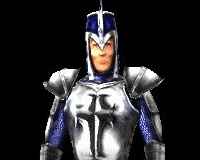
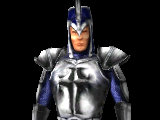
added Mages creatures images (see in comments of CreatureAliases)

Changed region(s): [[0.1875, 0.0, 0.8438, 1.0]]

diff --git a/Editor/src/main/java/sfgamedataeditor/common/cache/icons/aliases/CreaturesAliases.java b/Editor/src/main/java/sfgamedataeditor/common/cache/icons/aliases/CreaturesAliases.java
@@ -12,7 +12,8 @@ public class CreaturesAliases extends AbstractIconPathAlias {
 
         // Shin tar guar/Ghost of udwin/Zerbite ghost/Terror from the deep/Ghost of the scribe
         // Ghost of the scout/Dream-snatcher/Ghost of the piper/Ghost of shar
-        // Ghost of uram/Ghost of silverhand
+        // Ghost of uram/Ghost of silverhand/Ghost of hokan ashir/Priest of tiara
+        // Desperate soul - 1/Desperate soul - 2
         addAlias("1097.png", "640.png");
         addAlias("2335.png", "640.png");
         addAlias("637.png", "640.png");
@@ -23,6 +24,10 @@ public class CreaturesAliases extends AbstractIconPathAlias {
         addAlias("2723.png", "640.png");
         addAlias("2716.png", "640.png");
         addAlias("2724.png", "640.png");
+        addAlias("963.png", "640.png");
+        addAlias("2648.png", "640.png");
+        addAlias("2478.png", "640.png");
+        addAlias("2522.png", "640.png");
 
         // Iridon/Laurin - 1/Laurin - 2/Laurin - 3/Laurin - 4/Laurin - 5
         addAlias("2308.png", "2307.png");
@@ -187,6 +192,48 @@ public class CreaturesAliases extends AbstractIconPathAlias {
         addAlias("409.png", "1356.png");
         addAlias("1076.png", "1356.png");
 
+        // Trader weasel - 1/Trader weasel - 2
+        addAlias("2977.png", "2690.png");
+
+        // Vagabond nandini - 1/Vagabond nandini - 2
+        addAlias("2983.png", "2328.png");
+
+        // Kind soul - 1/Kind soul - 2
+        addAlias("2524.png", "2480.png");
+
+        // Strong soul - 1/Strong soul - 2
+        addAlias("2523.png", "2479.png");
+
+        // Angry soul - 1/Angry soul - 2
+        addAlias("2526.png", "2482.png");
+
+        // Swift soul - 1/Swift soul - 2
+        addAlias("2525.png", "2481.png");
+
+        // Cenwen - 1/Cenwen - 2
+        addAlias("1707.png", "1555.png");
+
+        // Dryad - 2/Dryad - 3
+        addAlias("2948.png", "2838.png");
+
+        // The dark one - 1/The dark one - 2
+        addAlias("1437.png", "1075.png");
+
+        // Tuomi-1/2/3/4/5
+        for (int i = 2695; i <= 2698; ++i) {
+            addAlias(String.valueOf(i) + ".png", "2694.png");
+        }
+
+        // Tuomi-6/7/8/9/10/11/12
+        for (int i = 2942; i <= 2947; ++i) {
+            addAlias(String.valueOf(i) + ".png", "2941.png");
+        }
+
+        // Tuomi-13/14/15/16
+        for (int i = 2950; i <= 2953; ++i) {
+            addAlias(String.valueOf(i) + ".png", "2941.png");
+        }
+
         addEloniElvesAliases();
         addSpidersAliases();
         addUroksAliases();
@@ -265,10 +312,11 @@ public class CreaturesAliases extends AbstractIconPathAlias {
         addAlias("2398.png", "586.png");
         addAlias("587.png", "586.png");
 
-        // Glacier drakeling/Gatekeeper dragon/Ice drakeling - 1/Ice drakeling - 2
+        // Glacier drakeling/Gatekeeper dragon/Ice drakeling - 1/Ice drakeling - 2/Argamun the guardian
         addAlias("1718.png", "1716.png");
         addAlias("1717.png", "1716.png");
         addAlias("2923.png", "1716.png");
+        addAlias("2704.png", "1716.png");
     }
 
     private void addEmpyriaCityGuardsAliases() {
@@ -298,9 +346,10 @@ public class CreaturesAliases extends AbstractIconPathAlias {
         addAlias("2961.png", "2906.png");
         addAlias("2968.png", "2906.png");
 
-        // Emperor magnus arias - 1/Emperor magnus arias - 2/Emperor magnus arias - 3
+        // Emperor magnus arias - 1/Emperor magnus arias - 2/Emperor magnus arias - 3/Circus master serbius
         addAlias("2451.png", "2117.png");
         addAlias("2912.png", "2117.png");
+        addAlias("2700.png", "2117.png");
 
         // Palace guard - 1/Palace guard - 3
         addAlias("2162.png", "2157.png");
@@ -438,7 +487,7 @@ public class CreaturesAliases extends AbstractIconPathAlias {
         addAlias("1157.png", "876.png");
         addAlias("1293.png", "876.png");
 
-        // Fist totem - 1/Fist totem - 2/Murak/Tronk/Hyrr/Urshuk/Gulkar/Obak/Shirkar
+        // Fist totem - 1/Fist totem - 2/Murak/Tronk/Hyrr/Urshuk/Gulkar/Obak/Shirkar/Argamun
         addAlias("1292.png", "886.png");
         addAlias("675.png", "886.png");
         addAlias("730.png", "886.png");
@@ -447,6 +496,7 @@ public class CreaturesAliases extends AbstractIconPathAlias {
         addAlias("738.png", "886.png");
         addAlias("1175.png", "886.png");
         addAlias("869.png", "886.png");
+        addAlias("2331.png", "886.png");
 
         // Fist veteran - 1/Fist veteran - 2/Fist lieutenant
         addAlias("1233.png", "881.png");
